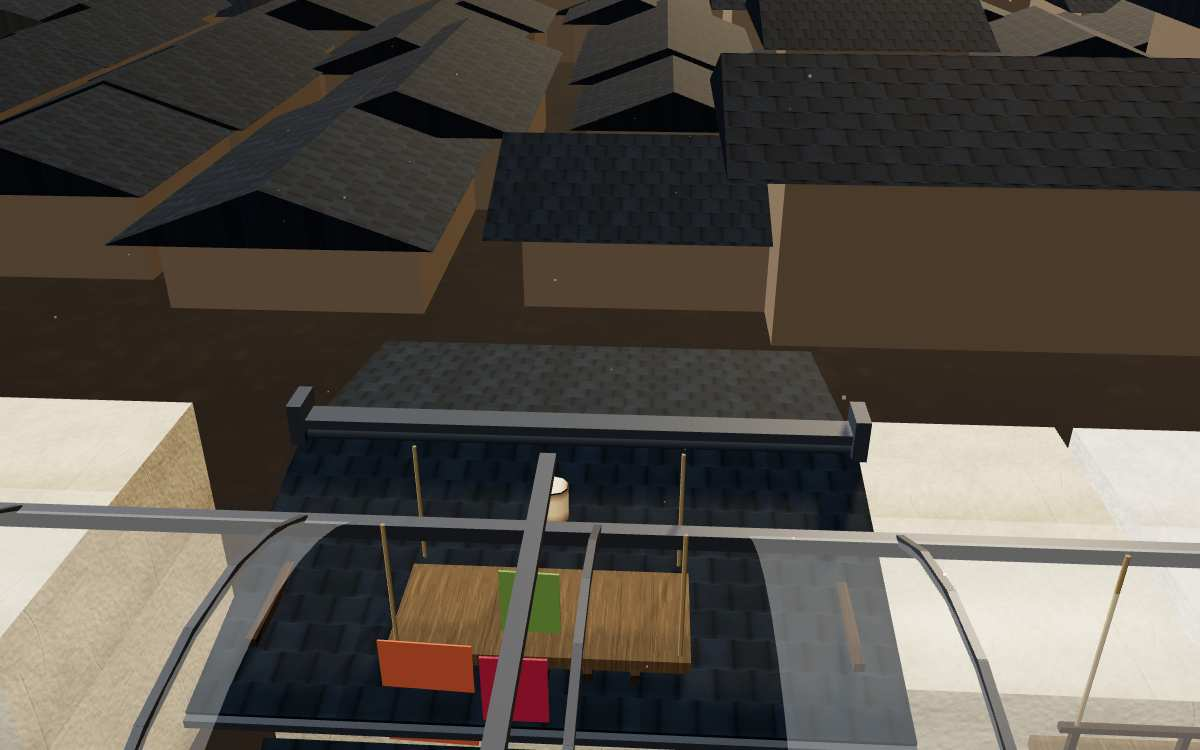
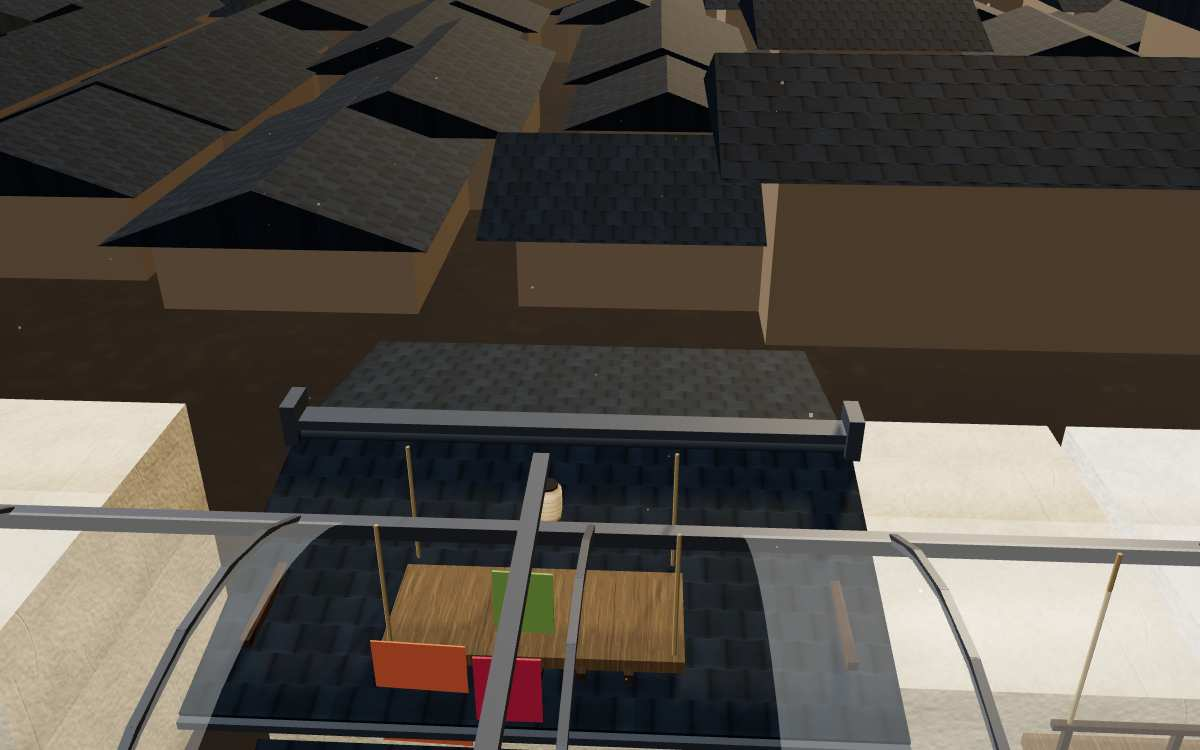
r3b-canal-market: pre-review fixes (classic boatman on the kit boat, measured budget exceptions, paper lanterns, boat motion proof)

diff --git a/src/kit/roofcanal/market.js b/src/kit/roofcanal/market.js
@@ -5,7 +5,7 @@
 // builders in rooftops/js/pieces/, nothing registered for collision.
 import { defineAsset } from '../contract.js?v=20261114a';
 import { Bag } from '../craft.js?v=20261114a';
-import { THREE, seg, PBag, PARAMS, sample, finish, ribbonGeo, placeLocal, frameGroupAt, lightSocket } from './common.js?v=20261114a';
+import { THREE, matFor, seg, PBag, PARAMS, sample, finish, ribbonGeo, placeLocal, frameGroupAt, lightSocket } from './common.js?v=20261114a';
 
 const rep = (tier, far, mid, hero) => (tier === 'far' ? far : tier === 'mid' ? mid : hero);
 
@@ -88,7 +88,7 @@ function buildLines(ctx, layout, p) {
   } else {
     bag.cyl(0.02, w + 0.3, 5, { axis: 'x', rz: p.tilt, y: pc.y - 0.03, z: pc.d, m: 'dark' });
     for (let x = -w / 2 + 0.3, i = 0; x < w / 2 - 0.2; x += 0.55, i++)
-      bag.cyl(0.11, 0.26, seg(t, 10), { x, y: pc.y - 0.28, z: pc.d, m: i % 3 === 1 ? 'lanternWhite' : 'lanternRed' });
+      bag.lantern(0.11, 0.26, seg(t, 10), { x, y: pc.y - 0.28, z: pc.d, m: i % 3 === 1 ? 'lanternWhite' : 'lanternRed' });
     out = finish(ctx, bag);
     const o = new ctx.THREE.Object3D(); o.position.set(0, pc.y - 0.3, pc.d); out.group.add(o); sockets.light_lines = o;
   }
@@ -107,7 +107,7 @@ function buildSkylightBridge(ctx, layout, p) {
   const crossZ = pc.d - toward * 1.65;
   bag.box(0.13, 0.1, 4.3, { y: pc.y + 1.05, z: crossZ, m: 'steel' });
   if (t !== 'far') for (const z of [-1, 0, 1]) bag.box(0.42, 0.52, 0.018, { ry: 0.04 * z, y: pc.y + 0.72, z: crossZ + z * 0.82, m: t === 'mid' ? 'steel' : `goods#${(z + 3)}` });
-  if (t !== 'far') bag.cyl(0.13, 0.34, seg(t, 10), { y: pc.y + 0.42, z: pc.d + toward * 0.8, m: 'lanternWhite' });
+  if (t !== 'far') bag.lantern(0.13, 0.34, seg(t, 10), { caps: t === 'hero', y: pc.y + 0.42, z: pc.d + toward * 0.8, m: 'lanternWhite' });
   const out = finish(ctx, bag);
   const o = new ctx.THREE.Object3D(); o.position.set(0, pc.y + 0.42, pc.d + toward * 0.8); out.group.add(o);
   out.sockets = { light_lamp: o };
@@ -218,7 +218,7 @@ function buildBoat(ctx, layout, p) {
   if (t !== 'far') {
     for (const z of [-0.78, 0.78]) {
       bag.box(len - 0.4, 0.045, 0.035, { y: 0.16, z, m: 'hullBand' });
-      if (t === 'hero') for (let x = -len / 2 + 0.5; x < len / 2 - 0.2; x += 0.5) bag.sphere(0.014, { x, y: 0.32, z: z + 0.02 * Math.sign(z), m: 'steel' });
+      if (t === 'hero') for (let x = -len / 2 + 0.5; x < len / 2 - 0.2; x += 0.5) bag.add(new THREE.SphereGeometry(0.014, 5, 4), { x, y: 0.32, z: z + 0.02 * Math.sign(z), m: 'steel' });
     }
     for (let j = 0; j < (t === 'hero' ? 4 : 2); j++) bag.torus(0.13 + j * 0.025, 0.012, 5, 18, { rx: Math.PI / 2, x: -len * 0.35, y: 0.33, z: 0.22, m: 'twine' });
     bag.add(new THREE.CylinderGeometry(0.13, 0.10, 0.22, 9, 1, true), { x: len * 0.36, y: 0.4, z: 0.35, m: 'agedWood' });
@@ -238,6 +238,18 @@ function buildBoat(ctx, layout, p) {
   // and tilts it) with `pole` (the pole pivot, child of the boatman) inside it. Both are empty here.
   const boatman = new ctx.THREE.Group(); boatman.position.set(1.55, 0.28, -0.24);
   const pole = new ctx.THREE.Group(); pole.position.set(0.04, 0.66, 0); boatman.add(pole); group.add(boatman);
+  // R75: until r5 lands the kit boat carries the CLASSIC boatman and pole (same meshes, sizes and places as pieces/boat.js)
+  // inside these two groups; r5 replaces them through the sockets. Not at the far tier (never chosen on the Roof Road).
+  if (t !== 'far') {
+    const mk = (geo, name, x, y) => { const m = new THREE.Mesh(geo, matFor(ctx, name)); m.position.set(x, y, 0); m.castShadow = true; return m; };
+    const hs = t === 'hero' ? 1 : 0.6;
+    boatman.add(mk(new THREE.BoxGeometry(0.24, 0.32, 0.2), 'goods#1', 0, 0.16),
+      mk(new THREE.CylinderGeometry(0.1, 0.15, 0.42, Math.max(5, Math.round(8 * hs))), 'bengara', 0, 0.5),
+      mk(new THREE.SphereGeometry(0.105, Math.max(6, Math.round(10 * hs)), Math.max(4, Math.round(7 * hs))), 'plasterWarm', 0, 0.79),
+      mk(new THREE.ConeGeometry(0.27, 0.13, Math.max(8, Math.round(16 * hs))), 'straw', 0, 0.91));
+    const pm = new THREE.Mesh(new THREE.CylinderGeometry(0.027, 0.027, 3.8, 6), matFor(ctx, 'bamboo')); pm.position.y = -0.25; pm.castShadow = true;
+    pole.add(pm);
+  }
   // the V wake and bow ring are ONE live mesh (the update scales/hides the `wake` group, M.wake's opacity follows speed)
   const wake = new ctx.THREE.Group(), wmat = (ctx.MAT && ctx.MAT.wake) || ctx.kitMaterials.plain(0xe8f2f0, { rough: 0.9 });
   const wb = new Bag();
@@ -264,7 +276,7 @@ export const assetsB = [
   def('roof-canal', 'Takase canal water', buildCanal, { s0: -35, s1: 35, y: 0, d: 0 }, { params: LEVEL, floating: ['body_water', 'body_foam'] }),
   def('roof-canal-banks', 'Canal banks', buildBanks, { s0: -37, s1: 37, y: 0, d: 0 }),
   def('roof-lines', 'Laundry, tow and lantern lines', buildLines, { s0: -2.5, s1: 2.5, y: 4.2, d: 0, style: 'laundry' }, { params: TILT, floating: ['body_bamboo', 'body_cloth_0', 'body_cloth_1', 'body_cloth_2', 'body_cloth_3', 'body_cloth_4', 'body_cloth_5', 'body_cloth_6', 'body_agedwood', 'body_dark', 'body_lanternwhite', 'body_lanternred'] }),
-  def('roof-skylight-bridge', 'Skylight bridge', buildSkylightBridge, { s0: -1.15, s1: 1.15, y: 0.12, d: 0, side: 'near' }, { floating: ['body_lanternwhite'] }),
+  def('roof-skylight-bridge', 'Skylight bridge', buildSkylightBridge, { s0: -1.15, s1: 1.15, y: 0.12, d: 0, side: 'near' }, { floating: ['body_lanternwhite', 'body_dark'] }),
   def('roof-market-stalls', 'Market stalls', buildStalls, { s0: -51.5, s1: 51.5, d: 0, gaps: [[-30, -26], [-2, 2], [24, 28]] }),
   def('roof-cherry-boughs', 'Cherry bough', buildCherry, { s0: -3, s1: 3, y: 0, d: 0, bough: { s0: -2.6, s1: 2.2, y: 1.8 }, bank: 'near' }, { params: { ...PARAMS, ...bloom }, floating: ['body_blossompale', 'body_blossom', 'body_blossomrose', 'body_bark'] }),
   def('roof-canopy', 'Nishiki canopy', buildCanopy, { s0: -51.5, s1: 51.5, y: 5.0, d: 1.2, gaps: [[-30, -26], [-2, 2], [24, 28]] }, { floating: ['body_glass', 'body_steel', 'body_goods_0', 'body_goods_1', 'body_goods_2', 'body_goods_3', 'body_goods_4', 'body_goods_5'] }),

diff --git a/src/kit/budgets.js b/src/kit/budgets.js
@@ -49,12 +49,22 @@ export const KIT_LIMITS = Object.freeze({
  * fields it names and must cite why. Added by the owning lane in its PR.
  */
 export const BUDGET_EXCEPTIONS = Object.freeze({
-  // Phase 5 r3b (roofcanal part b): the Roof Road's real runs (70 m canal, 74 m banks, 103 m canopy and stalls) and the hull
-  // carry the classic piece's own material count at hero (the painterly MAT set); mid and far remap down to the standard caps
-  'roof-canal-banks': { hero: { materials: 14 }, why: 'classic canalQuarter: wet stone, slab, stone, timber, posts, twine, steel, bronze, foliage, clay, dark, water; mid/far remap to 4/2' },
-  'roof-market-stalls': { hero: { materials: 12 }, why: 'plaster x2, timber, six goods colours, three noren; mid 4 / far 1 by remap' },
-  'roof-canopy': { hero: { materials: 8 }, why: 'glass, steel and six banner colours on a 103 m run; mid 3 / far 2' },
-  'roof-takasebune': { hero: { materials: 10 }, why: 'hull, hull band, timber x2, aged wood, straw, hemp, twine, steel and the wake; mid 3 / far 2' },
+  // Phase 5 r3b (roofcanal part b), R52. Hero tier = the classic piece's own MAT materials (ctx.MAT, so 0 new merged materials,
+  // 0 added merged draws); mid and far are remapped to the standard caps. Measured on the real runs, rooftop_golden digests of the
+  // largest piece of each type, classic vs `?swap=<id>:modular` (hero tier), uptime load 2.4-4.3, 2026-11-15:
+  //   roof-canal-banks     classic 182 meshes / 4480 tris / 14 materials -> modular 14 meshes / 4480 tris / 14 materials
+  //   roof-market-stalls   classic 234 meshes / 2808 tris / 12 materials -> modular 12 meshes / 2808 tris / 12 materials
+  //   roof-canopy          classic 289 meshes / 3468 tris /  8 materials -> modular  7 meshes / 3468 tris /  8 materials
+  //   roof-takasebune      classic  33 meshes / 4480 tris / 14 materials -> modular 15 meshes / 4480 tris / 14 materials (classic boatman kept, R75)
+  //   roof-skylight-bridge classic  18 meshes /  392 tris /  8 materials -> modular  9 meshes /  392 tris /  7 materials (the lantern's paper caps use M.dark, not the lone paperCapMaterial)
+  // Visible world meshes at the canal mouths 3-5 (s 280/300/352/499/520/672), classic -> all 8 part-b ids swapped, same frame:
+  //   437->384, 508->441, 565->516, 597->568, 747->721, 762->753 (fewer draws everywhere; renderer calls are not comparable: the
+  //   seeded Math.random draws shift with the build and move the atmosphere, +-25 calls between identical runs of different builds).
+  'roof-canal-banks': { hero: { materials: 14 }, why: 'classic canalQuarter uses the same 14 MAT materials (wet stone, slab, stone, timber, timberMed, twine, agedWood, steel, bronze, dark, water, pine, foliage, clay); 182 -> 14 meshes; mid/far remap to 4/2' },
+  'roof-market-stalls': { hero: { materials: 12 }, why: 'classic shopfronts uses the same 12 (plaster x2, timberMed, six goods colours, three noren); 234 -> 12 meshes; mid 4 / far 1 by remap' },
+  'roof-canopy': { hero: { materials: 8 }, why: 'classic canopy uses the same 8 (glass, steel, six banner colours) on the 103 m run; 289 -> 7 meshes; mid 3 / far 2' },
+  'roof-takasebune': { hero: { materials: 14 }, mid: { meshes: 9, materials: 8 }, why: 'classic boat uses the same 14 MAT materials incl. the classic boatman (R75) and wake; 33 -> 15 meshes; mid keeps the boatman (9 meshes, 8 materials); far remaps to 2' },
+  'roof-skylight-bridge': { hero: { materials: 7 }, why: 'classic marketCrossing uses 8 (timberMed, timber, hemp, steel, three goods, lanternWhite, paperCapMaterial); modular 7; 18 -> 9 meshes; mid 4 / far 1 by remap' },
   // the contract samples the real 11 m run (G-V1 I1); ruling R51
   'bamboo-fence': {
     mid: { triangles: 13000 },

diff --git a/src/kit/roofcanal/common.js b/src/kit/roofcanal/common.js
@@ -52,6 +52,13 @@ export class PBag {
     if (axis === 'x') g.rotateZ(Math.PI / 2); else if (axis === 'z') g.rotateX(Math.PI / 2);
     this._bag(m).add(g, o); g.dispose(); return this;
   }
+  /** The classic paper lantern (cyl() on a paper material): a lathe belly with two dark caps. */
+  lantern(r, len, seg, { m = 'lanternWhite', y = 0, caps = true, ...o } = {}) {
+    const g = new THREE.LatheGeometry([[-0.5, 0.7], [-0.42, 0.94], [-0.25, 1], [0.25, 1], [0.42, 0.94], [0.5, 0.7]].map(([yy, w]) => new THREE.Vector2(r * w, len * yy)), seg);
+    this._bag(m).add(g, { y, ...o }); g.dispose();
+    if (caps) for (const sign of [-1, 1]) this.cyl(r * 0.74, len * 0.065, seg, { m: 'dark', ...o, y: y + sign * len * 0.5 });
+    return this;
+  }
   torus(r, t, rs, ts, { m = 'stone', ...o } = {}) { const g = new THREE.TorusGeometry(r, t, rs, ts); this._bag(m).add(g, o); g.dispose(); return this; }
   sphere(r, { m = 'stone', ...o } = {}) { this._bag(m).sphere(r, o); return this; }
 }

diff --git a/docs/fable/status/r3b-canal-market.md b/docs/fable/status/r3b-canal-market.md
@@ -1,5 +1,5 @@
 # r3b-canal-market status
-Model: Claude Sonnet 5.5. Base: fable/integration 26f89c6. Started 2026-11-15 14:00. State: DONE_WITH_CONCERNS (8 of 11 promoted; 3 deferred).
+Model: Claude Sonnet 5.5. Base: fable/integration 26f89c6. Started 2026-11-15 14:00. State: DONE_WITH_CONCERNS (8 of 11 promoted; 3 deferred; pre-review fixes applied).
 
 ## Promoted (src/kit/roofcanal/market.js + common.js): roof-canal, roof-canal-banks, roof-lines, roof-skylight-bridge, roof-market-stalls, roof-cherry-boughs, roof-canopy, roof-takasebune (hull only)
 Ribbons (canal) are built from layout.rail; stalls and the cherry bough use one rail frame each (frameGroupAt), exactly the classic frames. Heights/depths identical to the classic builders; no collider registered; canopy glass is ctx.MAT.glass so the facade still moves it to the transparent batch. The boat returns the classic record and `live: [group]`; attach nodes for r5 are `sockets.attach_boatman` / `attach_pole` (empty, handoff §2).
@@ -16,6 +16,13 @@ Deferred: roof-willows, roof-culvert-ledges, roof-tenmangu-gate (builders live i
 Frames: canal s280, banks s300, lines s672, bridge s499, cherry s352, canopy s520, stalls s530, boat s266. d = hour 0.5, k = hour 0.2, c = hour 0.8 with the cat in frame (the page's camera follows the cat; no free camera). Captures are not pixel repeatable; judged by eye. Opened: canal-d, boat-d, stalls-c, cherry-k (modular). AAA-1: parity with the classic pieces (same shapes and MAT), small hero extras (bank caps, wrap rings); not an upgrade. AAA-5: the canopy, stalls and cherry blossom read at cat view and in the dark. The water reads as classic. Boat: no boatman until r5 (expected, by brief).
 
 ## Concerns
-1. Boat on swap has no boatman until r5 fills the attach nodes.
+1. The kit boat carries the classic boatman until r5 (R75).
 2. Water/foam ribbons sit in the kit group's static batch instead of the classic transparent group; looked the same in the pairs, flagged in handoff §4.
 3. The 3 downtown ids are still classic.
+
+## Pre-review fixes (coordinator round 1)
+1. Boatman (R75): the kit takasebune now carries the classic boatman and pole in `sockets.attach_boatman` / `attach_pole` (hero and mid; far never occurs on the Roof Road). Golden: the boat piece digest is 4480 tris classic and modular (the boatman included); boat-c-modular.jpg shows him with the pole. Also found and fixed on the way: `Bag.sphere` is a high-res unit sphere (the nails cost 3.5k tris); now SphereGeometry(0.014, 5, 4) as classic. And the paper lanterns (roof-lines, skylight bridge lamp) were plain cylinders; they are now the classic lathe lantern with caps (rope 920 tris, bridge 392 tris, both equal to classic at hero).
+2. Budgets: five exceptions in src/kit/budgets.js with measured classic vs modular numbers (meshes / tris / materials, golden digest of the largest real piece, hero): banks 182/4480/14 -> 14/4480/14; stalls 234/2808/12 -> 12/2808/12; canopy 289/3468/8 -> 7/3468/8; takasebune 33/4480/14 -> 15/4480/14; skylight bridge 18/392/8 -> 9/392/7. No material added: every one is ctx.MAT, so 0 new merged draws. Visible world meshes at s 280/300/352/499/520/672, classic -> all 8 swapped: 437->384, 508->441, 565->516, 597->568, 747->721, 762->753 (uptime 3.8 to 4.3). renderer.info calls are NOT a usable comparison: two identical classic boots agree, but classic vs swap differ by +-25 either way because the seeded Math.random draws (three.js UUIDs) shift with the build and move the atmosphere particles (calls: 171/151, 201/168, 167/185, 111/115, 171/167, 249/239).
+3. Boat motion proof (scratch script, `_scratch/r3b/boat3.js`): drive `world.update(t, 0.3, platOffset, platforms, 268)` for 600 frames at 1/60 s from t = 50 and snapshot every 10 frames (60 samples x 2 boats): group world matrix, wake scale.x and visible, M.wake.opacity, boatman rotation y/z, pole rotation z, group visible, dir. Classic vs `swap=roof-takasebune:modular`: 0 of 60 samples differ (boat 0 travels x -7.9 to 10.6, both directions). The bow ring is not touched by world.update. The golden's own `dynamic.boats` records are identical in classic and swap.
+4. Water and foam in the static batch: three sorts all transparent objects by distance whichever group holds them, and the transparent things near the canal (boat wake, M.glass of the canopy at s 476+) never overlap the canal's water in view; canal-d/k/c pairs at hour 0.5 / 0.2 / 0.8 show the same water, foam and wake. Left in the static batch.
+Re-run: contract 16 assets / 1133 checks / 0 failed; rooftop_golden classic EQUAL, swap of all 16 ids changes only 74 piece entries; rooftop_test 38/2 baseline; `?auto=1` with all 16 ids swapped stalls at s=1232.2124 (classic identical); footprint EQUAL; cadJS check 15/15 and 16/16; verify, labs_check OK. L6 for lines, bridge and boat re-shot (3 hours + cat view).

diff --git a/docs/fable/handoff/r3b-canal-market.md b/docs/fable/handoff/r3b-canal-market.md
@@ -3,10 +3,13 @@
 Promoted (8): roof-canal, roof-canal-banks, roof-lines, roof-skylight-bridge, roof-market-stalls, roof-cherry-boughs, roof-canopy, roof-takasebune (hull only). Part names `asset:<id>/body_<material>`; takasebune also `wake` (one live mesh in a group the update scales/hides) and `boatman` (the empty boatman group).
 Deferred (3): roof-willows, roof-culvert-ledges, roof-tenmangu-gate. They DO have PIECES entries (`willow`, `culvertLedge`, `tenmanguGate` in rooftops/js/pieces/index.js, built by `DT.*` in downtown.js, so r1's handoff already covers how they route); their classic builders live in downtown.js (read-only for this lane) and are large downtown pieces, so they go to a later pass. No patch is needed to add them.
 ## 2. For r5 (boatman)
-The takasebune kit piece returns the boat record `{ group, plat, d, boatman, pole, wake, bowRing, lastS, dir }` in `dynamic: { boats, boat }` with `live: [group]`, exactly the classic shape. Attach node: `sockets.attach_boatman` is the boat-local group at the classic boatman's place (1.55, 0.28, -0.24); `world.update()` rotates it (y flip with direction, z tilt) so put the boatman inside it. `sockets.attach_pole` (child of it, at 0.04, 0.66, 0) is the pole pivot the update swings (rotation.z). The hull piece ships these two groups EMPTY: on `?swap=roof-takasebune:modular` the boat has no boatman until r5's roof-boatman fills them (classic shows him).
+The takasebune kit piece returns the boat record `{ group, plat, d, boatman, pole, wake, bowRing, lastS, dir }` in `dynamic: { boats, boat }` with `live: [group]`, exactly the classic shape. Attach node: `sockets.attach_boatman` is the boat-local group at the classic boatman's place (1.55, 0.28, -0.24); `world.update()` rotates it (y flip with direction, z tilt) so put the boatman inside it. `sockets.attach_pole` (child of it, at 0.04, 0.66, 0) is the pole pivot the update swings (rotation.z). Until r5 lands (R75) the kit boat carries the CLASSIC boatman and pole inside these two groups (same meshes, sizes and places as pieces/boat.js: legs, body, head, kasa, bamboo pole), so a swapped boat poles exactly as classic. r5 replaces that figure by emptying/replacing the children of `attach_boatman` (keep `attach_pole` as the pole pivot).
 ## 3. Budget exceptions (src/kit/budgets.js, added in this PR as the file says lanes do)
-roof-canal-banks hero materials 14, roof-market-stalls hero 12, roof-canopy hero 8, roof-takasebune hero 10; every mid and far tier is remapped to the standard caps. Samples are the real runs (canal 70 m, banks 74 m, canopy and stalls 103 m with 3 gaps).
+Five entries (banks, stalls, canopy, takasebune, skylight bridge) with measured classic vs modular meshes/tris/materials in the file's comment (R52); hero = the classic piece's own MAT materials, mid and far remap to the standard caps (takasebune mid keeps the boatman: 9 meshes, 8 materials). Samples are the real runs (canal 70 m, banks 74 m, canopy and stalls 103 m with 3 gaps).
 ## 4. Glass and water
 The canopy vault uses ctx.MAT.glass, so the facade's own glass pass (build.js) still moves it to the transparent batch. The canal's water/foam ribbons are `M.water`/`M.foam` in the static batch of the kit group (classic added them through `ctx.addGlass`, a separate transparent group): they sort as transparent either way; judged by eye in the L6 pairs.
 ## 5. Notes
 Ribbons are built from `layout.rail` (the canal in the layout frame; foam sub-ranges interpolate). Wake merges into one mesh (classic: 3 meshes) to meet the far mesh cap; its group is animated as before.
+
+## 6. Optional golden hook
+tools/rooftop_golden.js has no boat update samples; the boat motion proof is a scratch script (status file, Pre-review fixes 3). If you want it in the golden: after `world.update(t, ...)` for t = 50 + k/60, record each `dynamic.boats[i].group.matrixWorld`, `wake.scale.x/visible`, `M.wake.opacity`, `boatman.rotation.y/z`, `pole.rotation.z`.
